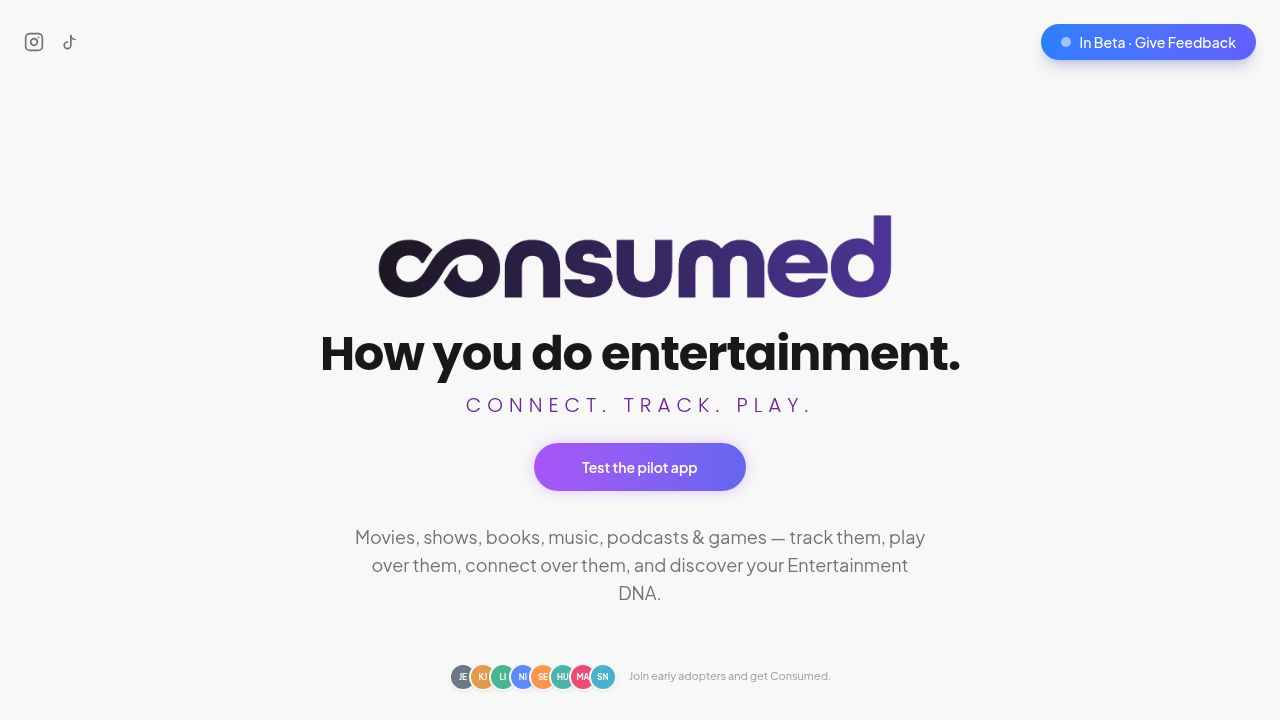
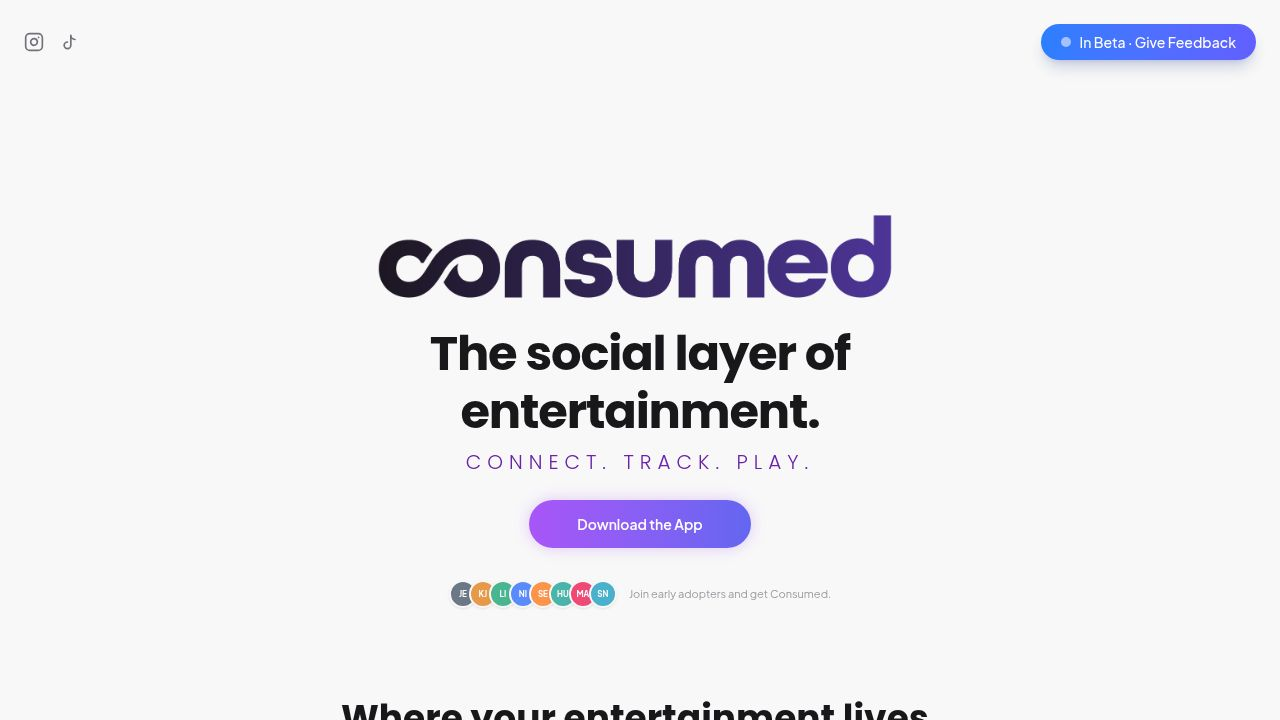
Adjust headline text size and layout to fit on a single line
Update headline font size and apply whitespace-nowrap for responsive single-line display.

Replit-Commit-Author: Agent
Replit-Commit-Session-Id: 1054afe4-a81a-4bfc-9d50-b308ff59b433
Replit-Commit-Checkpoint-Type: full_checkpoint
Replit-Commit-Event-Id: abf2c1d7-b2f6-4d7a-8204-22250e1fcb27
Replit-Commit-Screenshot-Url: https://storage.googleapis.com/screenshot-production-us-central1/3ba4014b-a542-439a-b8e3-25ffaea1718b/1054afe4-a81a-4bfc-9d50-b308ff59b433/yeUIuI4
Replit-Helium-Checkpoint-Created: true

Changed region(s): [[0.2812, 0.55, 0.7188, 0.8556], [0.25, 0.4583, 0.75, 0.5194], [0.25, 0.9167, 0.7188, 1.0]]

diff --git a/client/src/pages/home.tsx b/client/src/pages/home.tsx
@@ -173,7 +173,7 @@ export default function Home() {
             initial={{ opacity: 0, y: 20 }}
             animate={{ opacity: 1, y: 0 }}
             transition={{ duration: 0.6, delay: 0.1 }}
-            className="text-4xl md:text-5xl font-bold tracking-tight mb-2 leading-[1.2]"
+            className="text-3xl md:text-4xl lg:text-5xl font-bold tracking-tight mb-2 leading-[1.2] whitespace-nowrap"
           >
             The social layer of entertainment.
           </motion.h1>
